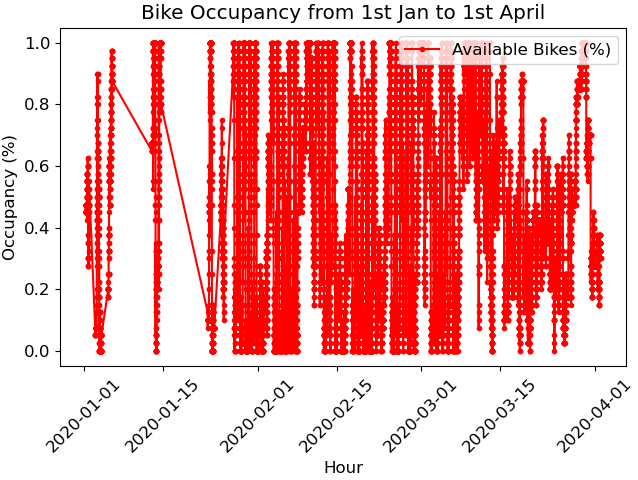
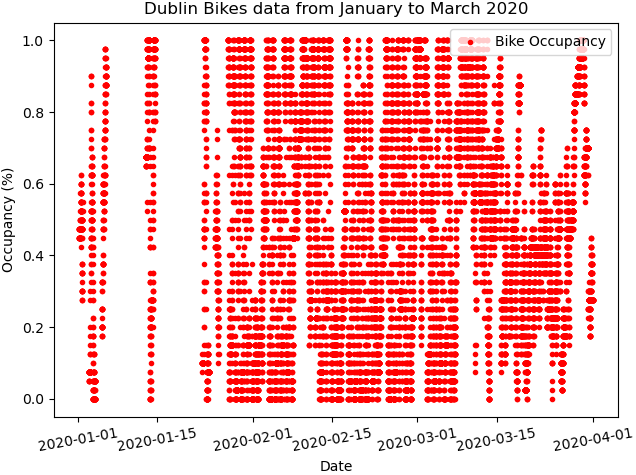
total plot, date range

diff --git a/plot-lecture.py b/plot-lecture.py
@@ -6,7 +6,7 @@ import math, sys
 plt.rcParams['figure.constrained_layout.use'] = True
 
 # dublin_bikes = pd.read_csv('/content/drive/MyDrive/ML Final/dublinbikes_20200101_20200401.csv')
-canal_dock_df = pd.read_csv('/station_dataset/grand_canal_dock.csv',
+canal_dock_df = pd.read_csv('./station_dataset/grand_canal_dock.csv',
                             usecols=['TIME', 'AVAILABLE BIKES', 'BIKE STANDS'],
                             parse_dates=['TIME'], index_col="TIME")
 # kilmainham_lane = pd.read_csv('/content/drive/MyDrive/ML Final/kilmainham_lane.csv', usecols = [2,7], parse_dates=[1])
@@ -18,8 +18,8 @@ timestamp_array = pd.array(
 timestamp_interval = timestamp_array[1] - timestamp_array[0]  # 300 seconds, 5 minutes
 
 # start date, end date
-start = pd.to_datetime('01−01−2020', format='%d−%m−%Y')
-end = pd.to_datetime('31−03−2020', format='%d−%m−%Y')
+start = pd.to_datetime('04−02−2020', format='%d−%m−%Y')
+end = pd.to_datetime('14−03−2020', format='%d−%m−%Y')
 
 t_start = (pd.DatetimeIndex([start]).astype(np.int64) / 1000000000).values[0]
 t_end = (pd.DatetimeIndex([end]).astype(np.int64) / 1000000000).values[0]
@@ -32,23 +32,29 @@ y = np.extract([(timestamp_array.to_numpy() >= t_start) & (timestamp_array.to_nu
     np.int64)
 
 q = 10
-lag = 3;
+lag = 3
 stride = 1
-w = math.floor(7 * 24 * 60 * 60 / timestamp_interval)  # number of samples per week
-length = y.size - w - lag * w - q
+# number of samples per week
+week = math.floor(7 * 24 * 60 * 60 / timestamp_interval)
+length = y.size - week - lag * week - q
 XX = y[q:q + length:stride]
-for i in range(1, lag):
-    X = y[i * w + q:i * w + q + length:stride]
-XX = np.column_stack((XX, X))
-d = math.floor(24 * 60 * 60 / timestamp_interval)  # number of samples per day
+
+for i in range(0, lag):
+    X = y[i * week + q:i * week + q + length:stride]
+    XX = np.column_stack((XX, X))
+
+# number of samples per day
+d = math.floor(24 * 60 * 60 / timestamp_interval)
 for i in range(0, lag):
     X = y[i * d + q:i * d + q + length:stride]
-XX = np.column_stack((XX, X))
+    XX = np.column_stack((XX, X))
+
 for i in range(0, lag):
     X = y[i:i + length:stride]
-XX = np.column_stack((XX, X))
-yy = y[lag * w + w + q:lag * w + w + q + length:stride]
-tt = t[lag * w + w + q:lag * w + w + q + length:stride]
+    XX = np.column_stack((XX, X))
+
+yy = y[lag * week + week + q:lag * week + week + q + length:stride]
+tt = t[lag * week + week + q:lag * week + week + q + length:stride]
 from sklearn.model_selection import train_test_split
 
 train, test = train_test_split(np.arange(0, yy.size), test_size=0.2)
@@ -64,4 +70,5 @@ plt.xlabel('time(days)')
 plt.ylabel('  # bikes')
 plt.legend(['training data', 'predictions'], loc='upper right')
 day = math.floor(24 * 60 * 60 / timestamp_interval)  # number of samples per day
+plt.xlim((4 * 7, 4 * 7 + 4))
 plt.show()

diff --git a/plot-features.py b/plot-features.py
@@ -1,0 +1,38 @@
+import pandas as pd
+import numpy as np
+import matplotlib.pyplot as plt
+import seaborn as sns
+
+plt.rc('font', size=10)
+plt.rcParams['figure.constrained_layout.use'] = True
+
+# dublin_bikes = pd.read_csv('/content/drive/MyDrive/ML Final/dublinbikes_20200101_20200401.csv')
+# feature selection
+main_df = pd.read_csv('./station_dataset/grand_canal_dock.csv',
+                      usecols=['TIME', 'AVAILABLE BIKES', 'BIKE STANDS'],
+                      parse_dates=['TIME'], index_col="TIME")
+suburb_df = pd.read_csv('./station_dataset/brookfield-road.csv',
+                        usecols=['TIME', 'AVAILABLE BIKES', 'BIKE STANDS'],
+                        parse_dates=['TIME'], index_col="TIME")
+
+# feature engineering
+main_df['OCCUPANCY'] = main_df['AVAILABLE BIKES'] / main_df['BIKE STANDS']
+main_df.drop(['AVAILABLE BIKES', 'BIKE STANDS'], axis=1, inplace=True)
+
+# specify start date and end date between the date range present in the dataset
+start_date = '2020-01-01'
+end_date = '2020-04-01'
+
+df = main_df[(main_df.index >= start_date) & (main_df.index <= end_date)]
+
+X = df.index
+y = df['OCCUPANCY']
+
+# TODO remove year from X label
+plt.scatter(X, y, color='red', marker='.',  label='Bike Occupancy')
+plt.title('Dublin Bikes data from January to March 2020')
+plt.xlabel('Date')
+plt.ylabel('Occupancy (%)')
+plt.legend(loc='upper right', bbox_to_anchor=(1, 1))
+plt.xticks(rotation=10)
+plt.show()
